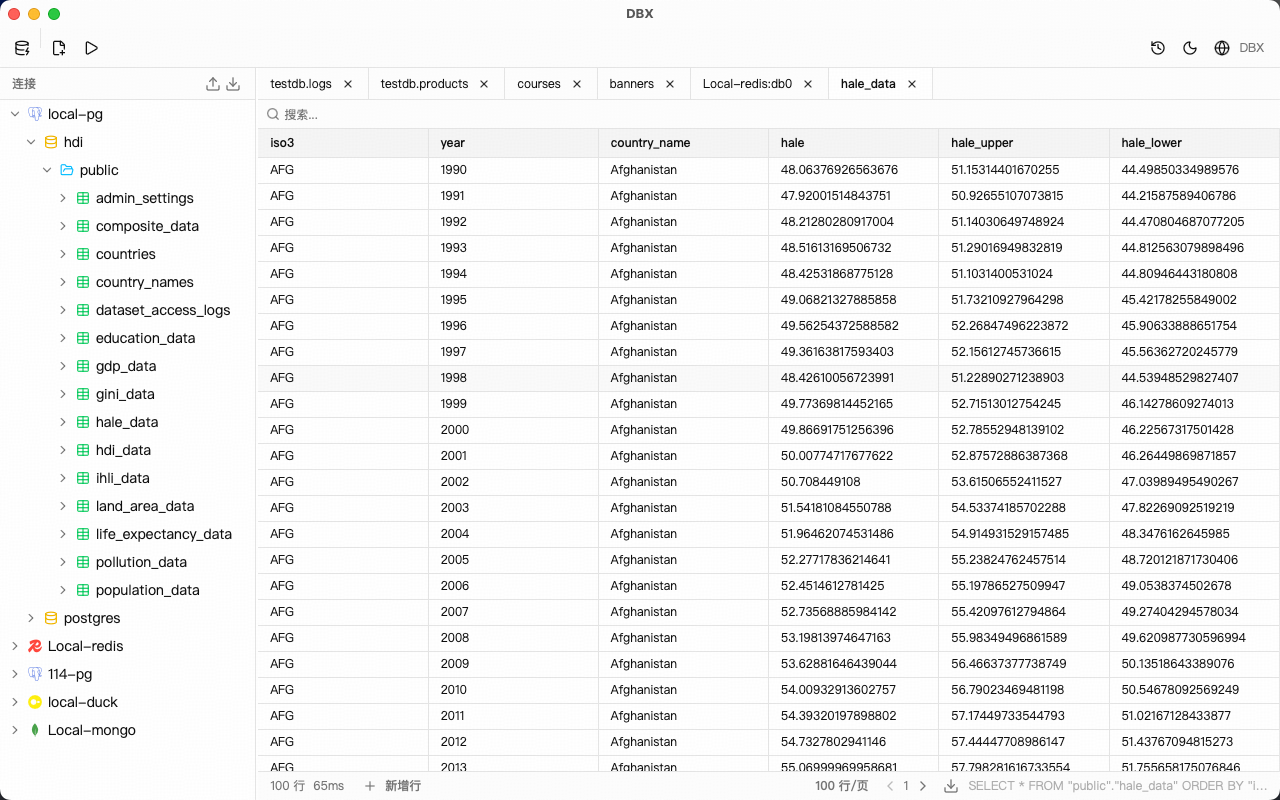
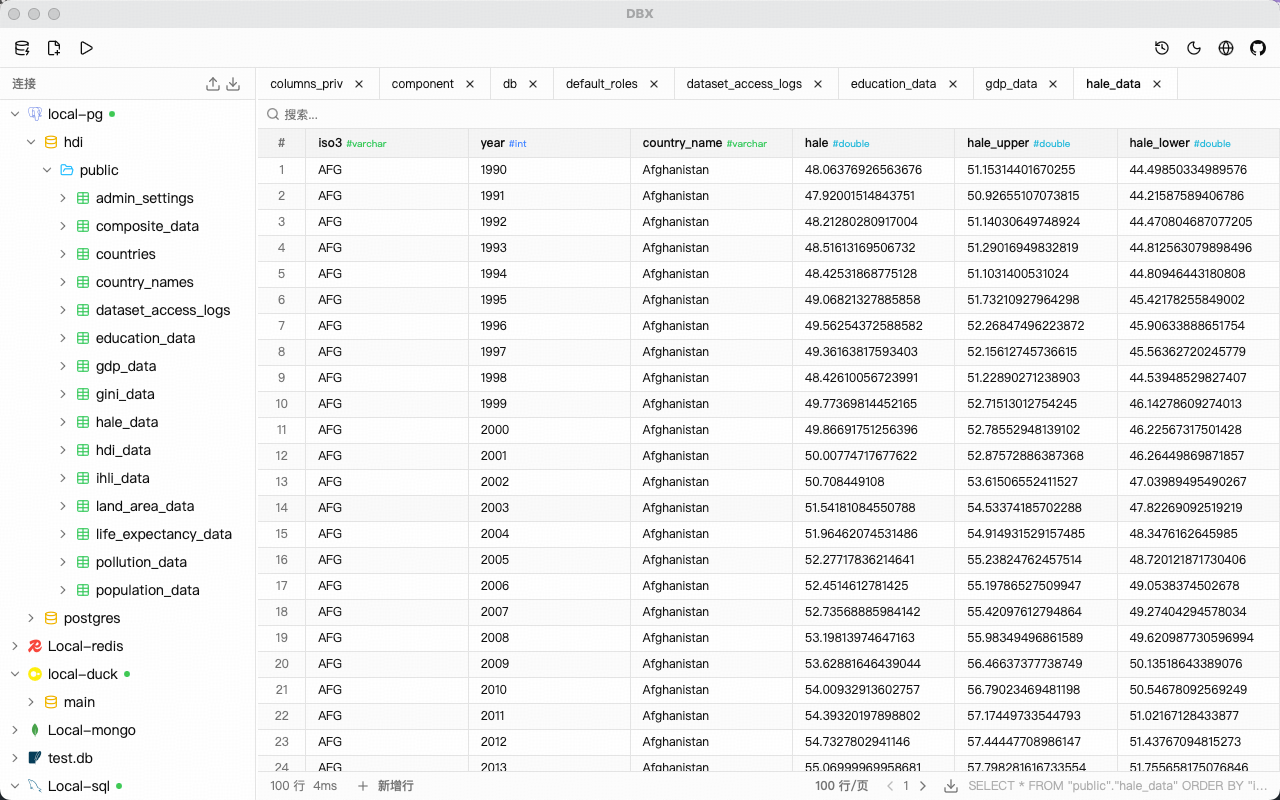
docs: update README to add contact group

diff --git a/README.md b/README.md
@@ -83,13 +83,13 @@ The installer will be in `src-tauri/target/release/bundle/`.
 
 ## Tech Stack
 
-| Layer | Technology |
-|-------|-----------|
-| Framework | [Tauri 2](https://tauri.app/) |
-| Frontend | [Vue 3](https://vuejs.org/) + TypeScript |
-| UI | [shadcn-vue](https://www.shadcn-vue.com/) + Tailwind CSS |
-| Editor | [CodeMirror 6](https://codemirror.net/) |
-| Backend | Rust + [sqlx](https://github.com/launchbadge/sqlx) / [tiberius](https://github.com/prisma/tiberius) / [redis-rs](https://github.com/redis-rs/redis-rs) / [mongodb](https://github.com/mongodb/mongo-rust-driver) |
+| Layer     | Technology                                                                                                                                                                                                       |
+| --------- | ---------------------------------------------------------------------------------------------------------------------------------------------------------------------------------------------------------------- |
+| Framework | [Tauri 2](https://tauri.app/)                                                                                                                                                                                    |
+| Frontend  | [Vue 3](https://vuejs.org/) + TypeScript                                                                                                                                                                         |
+| UI        | [shadcn-vue](https://www.shadcn-vue.com/) + Tailwind CSS                                                                                                                                                         |
+| Editor    | [CodeMirror 6](https://codemirror.net/)                                                                                                                                                                          |
+| Backend   | Rust + [sqlx](https://github.com/launchbadge/sqlx) / [tiberius](https://github.com/prisma/tiberius) / [redis-rs](https://github.com/redis-rs/redis-rs) / [mongodb](https://github.com/mongodb/mongo-rust-driver) |
 
 ## License
 
@@ -98,3 +98,7 @@ The installer will be in `src-tauri/target/release/bundle/`.
 ## Community
 
 [![LINUX DO](https://img.shields.io/badge/LINUX%20DO-Community-blue)](https://linux.do)
+
+|                     WeChat Group                      |                     QQ Group                      |
+| :---------------------------------------------: | :-----------------------------------------: |
+| <img src="docs/wechat-group.jpg" width="200" /> | <img src="docs/qq-group.jpg" width="200" /> |

diff --git a/README.zh-CN.md b/README.zh-CN.md
@@ -98,3 +98,9 @@ pnpm tauri build
 ## 社区
 
 [![LINUX DO](https://img.shields.io/badge/LINUX%20DO-社区-blue)](https://linux.do)
+
+### 交流群
+
+| 微信群 | QQ群 |
+|:---:|:---:|
+| <img src="docs/wechat-group.jpg" width="200" /> | <img src="docs/qq-group.jpg" width="200" /> |